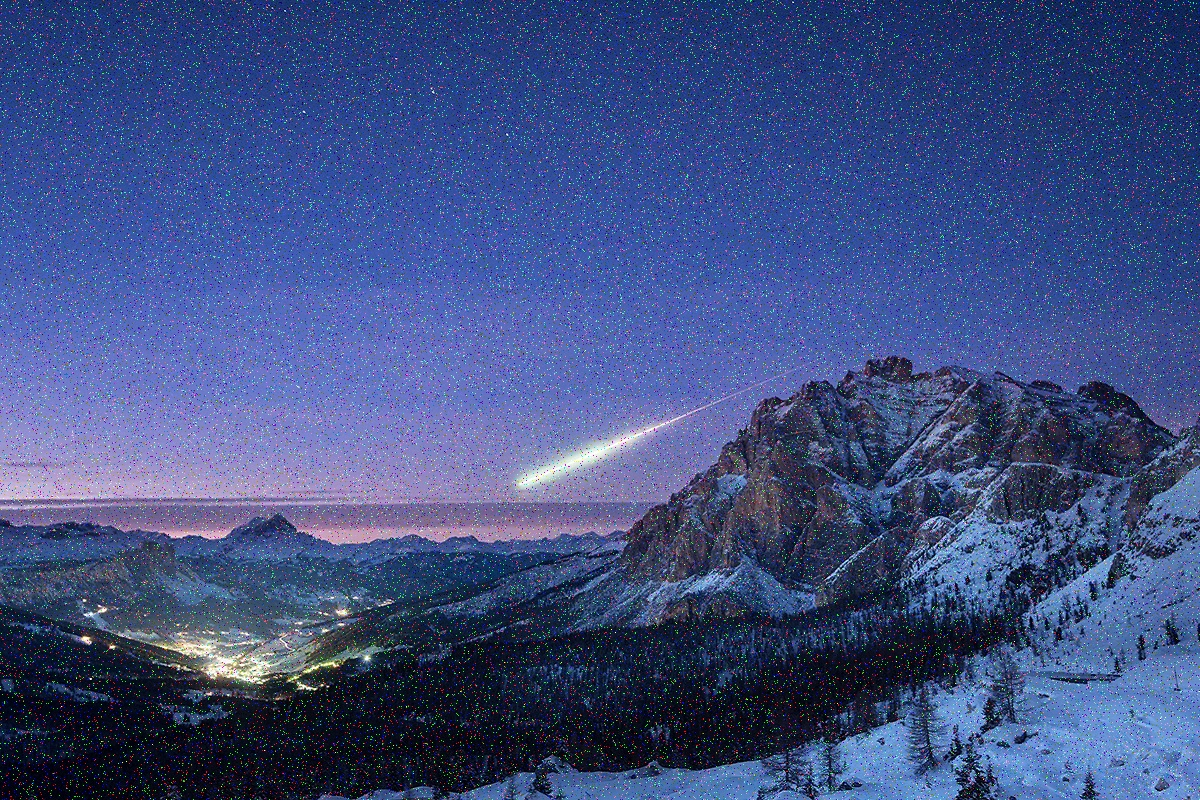
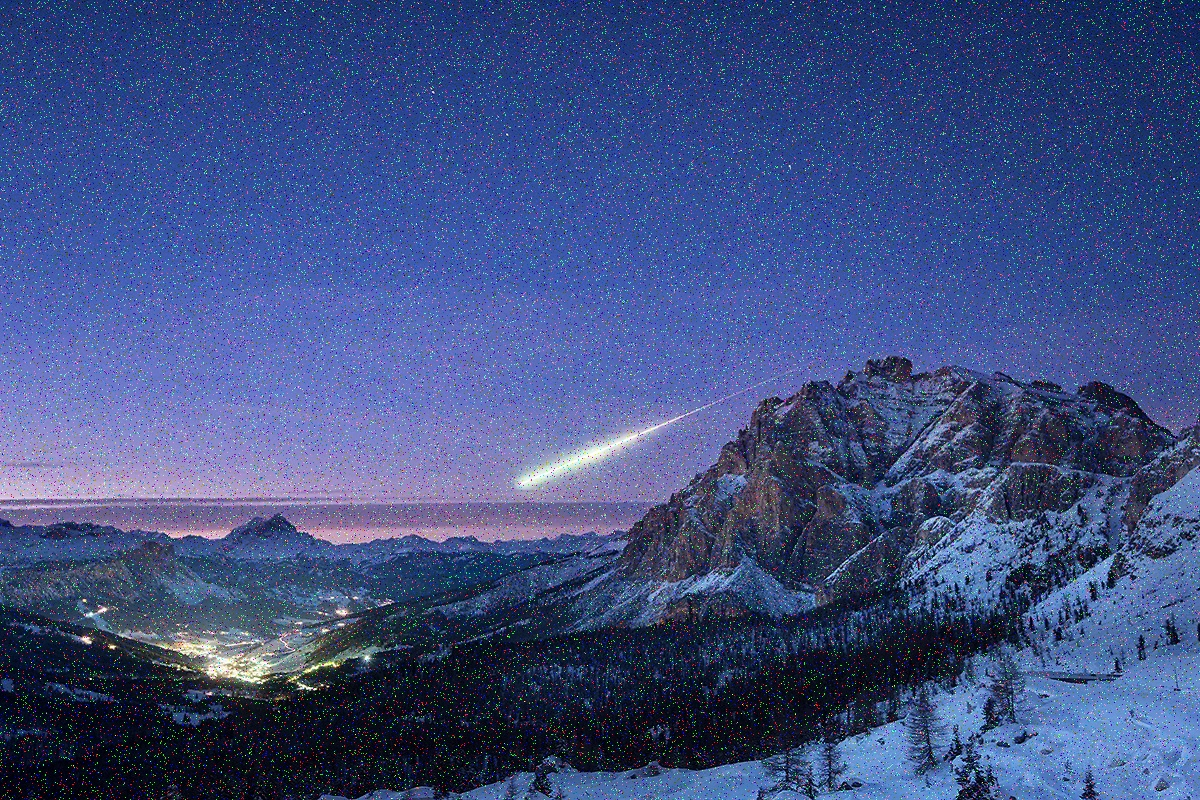
add discrete cosine transform operation

diff --git a/ImageCompression/DCT.py b/ImageCompression/DCT.py
@@ -1,0 +1,42 @@
+"""
+Description: Discrete Cosine Transform
+
+author: xjw
+
+date: 2020-7-29
+"""
+import cv2
+import numpy as np
+import matplotlib.pyplot as plt
+from skimage import util
+"""
+add salt&pepper noise
+"""
+def add_noise(img):
+    rows, cols, channels = img.shape
+    for i in range(500):
+        x = np.random.randint(0, rows)
+        y = np.random.randint(0, cols)
+        if np.random.randint(0,1) == 0:
+            img[x,y] = 0
+        else:
+            img[x, y] = 255
+    return img
+
+"""
+@param  
+"""
+def denoising(img, sigma, psize=8):
+    img_out = np.zeros(img.shape, np.uint8)
+    cv2.xphoto.dctDenoising(img, img_out, sigma, psize)
+    return img_out
+
+
+if __name__ == "__main__":
+    str = "resource/1_sp_noise.jpg"
+    img = cv2.imread(str)
+    cv2.imshow("original image", img)
+
+    img_denoising = denoising(img, 45, 8)
+    cv2.imshow("denoising image", img_denoising)
+    cv2.waitKey(0)
